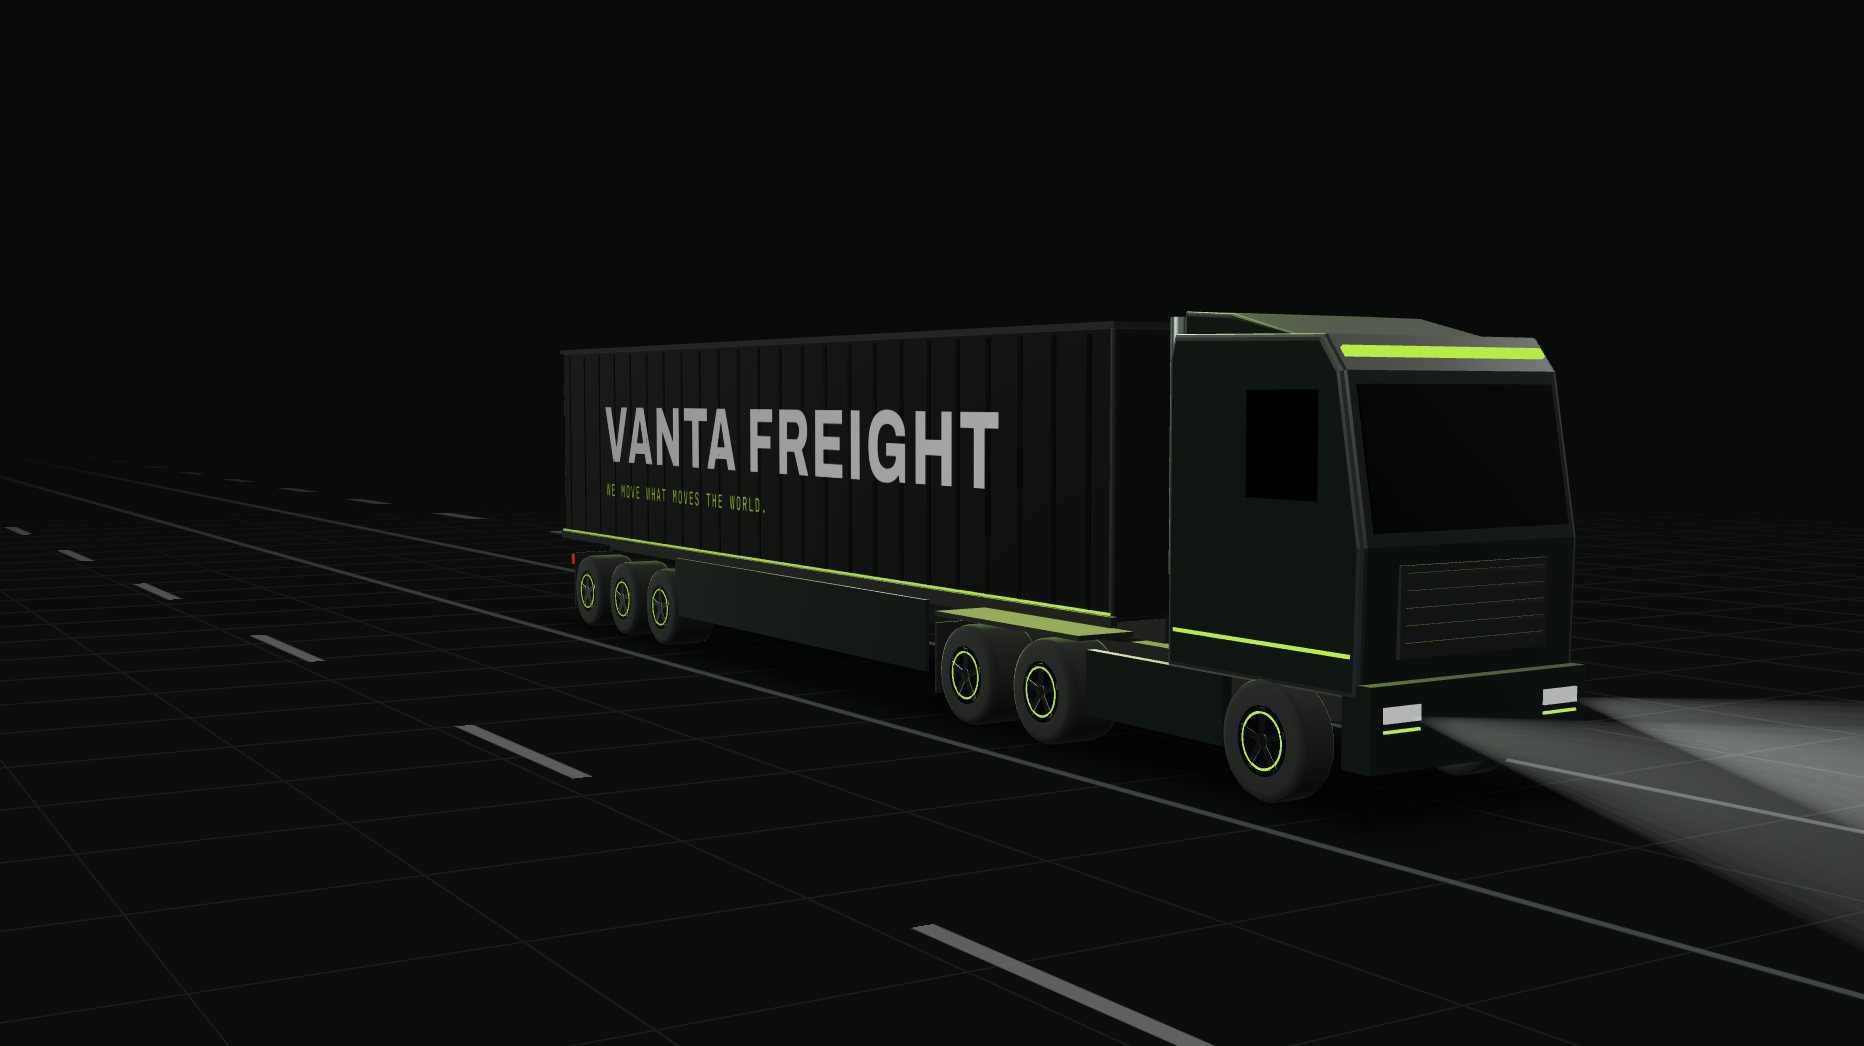
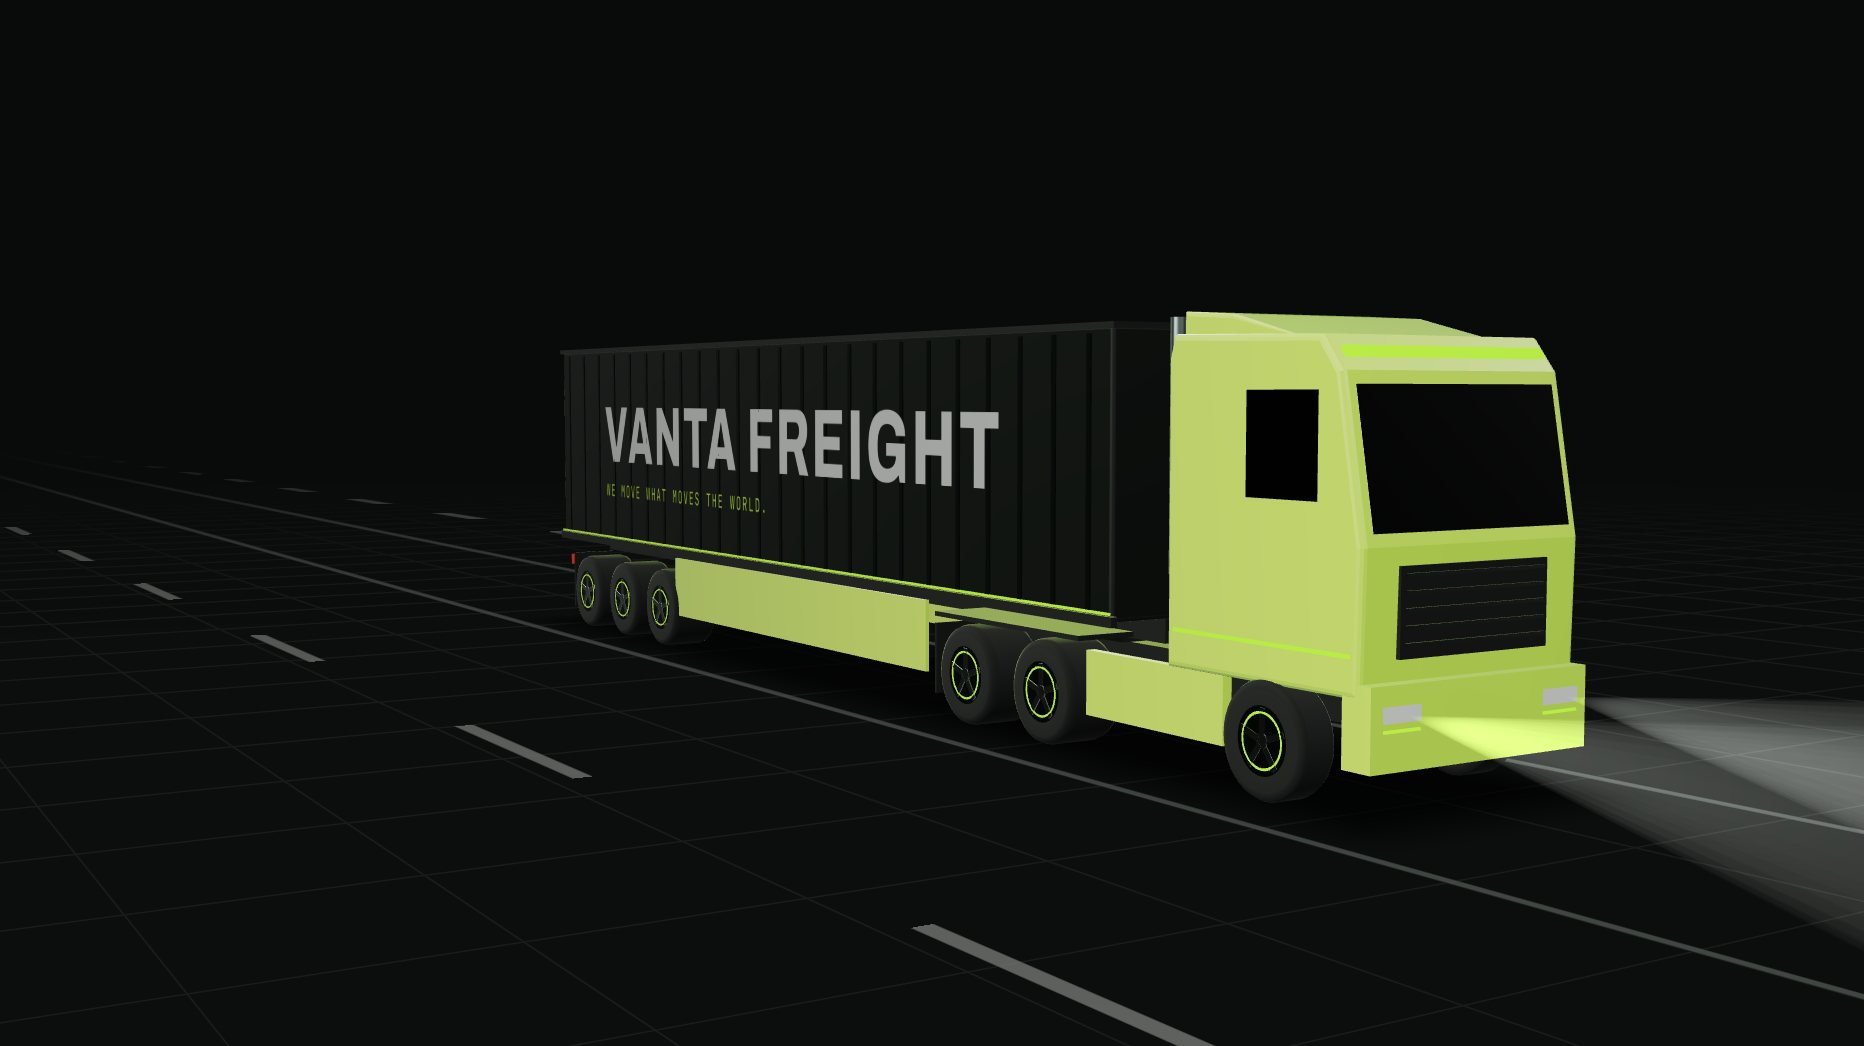
Give each fleet class its own brand livery
VF-01 gets a lime cab over a carbon trailer, VF-02 ice white with carbon
lettering and lime light lines, VF-03 brushed steel. All colours come from
the brand palette; the side lettering texture is now per text colour so
it reads on light and dark boxes. Posters and the social card are
re-rendered to match.

The Kenney Car Kit stays out of the site by the owner's decision; the
manifest records its verified CC0 licence and that it is not used.

Also make four timing-sensitive smoke checks wait for the expected state
instead of a fixed sleep, so they pass on slower machines.

Claude-Session: https://claude.ai/code/session_01D11oMKEwsjUTQBXcQRm84k

Changed region(s): [[0.5601, 0.2753, 0.8712, 0.7648], [0.3423, 0.5201, 0.529, 0.6424]]

diff --git a/src/webgl/truck/procedural-truck.js b/src/webgl/truck/procedural-truck.js
@@ -66,6 +66,38 @@ const VARIANTS = {
   },
 };
 
+// Per-class paint, all from the brand palette: VF-01 a lime cab over a carbon
+// trailer, VF-02 ice white with lime light lines, VF-03 brushed steel. `text`
+// colours the side lettering so it reads on the box paint.
+export const LIVERIES = {
+  semi: {
+    body: { color: '#a6e22e', metalness: 0.15, roughness: 0.3 },
+    trailer: { color: '#151916' },
+    rib: { color: '#1d231f' },
+    text: { name: '#e9ede8', tagline: '#c7ff4a' },
+  },
+  rigid: {
+    body: { color: '#dfe4de', metalness: 0.1, roughness: 0.32 },
+    trailer: { color: '#e2e6e1', metalness: 0.1, roughness: 0.45 },
+    rib: { color: '#c3cbc5', metalness: 0.3, roughness: 0.4 },
+    text: { name: '#151916', tagline: '#3d4741' },
+  },
+  tractor: {
+    body: { color: '#89958d', metalness: 0.85, roughness: 0.28 },
+    trailer: {},
+    rib: {},
+    text: null,
+  },
+};
+
+function applyLivery(materials, livery) {
+  for (const key of ['body', 'trailer', 'rib']) {
+    const { color, ...rest } = livery[key];
+    if (color) materials[key].color.set(color);
+    Object.assign(materials[key], rest);
+  }
+}
+
 function nonIndexed(geometry) {
   return geometry.index ? geometry.toNonIndexed() : geometry;
 }
@@ -355,14 +387,16 @@ function createWheels(materials, axles) {
   return { meshes, setDistance };
 }
 
-let liveryTexture = null;
+// One lettering texture per text colour pair, shared by every truck using it.
+const liveryTextures = new Map();
 
-function getLiveryTexture() {
-  liveryTexture ??= createLiveryTexture();
-  return liveryTexture;
+function getLiveryTexture(text) {
+  const key = `${text.name}/${text.tagline}`;
+  if (!liveryTextures.has(key)) liveryTextures.set(key, createLiveryTexture(text));
+  return liveryTextures.get(key);
 }
 
-async function createLiveryTexture() {
+async function createLiveryTexture(text) {
   try {
     await Promise.all([
       document.fonts.load("800 160px 'Archivo Variable'"),
@@ -377,7 +411,7 @@ async function createLiveryTexture() {
   canvas.height = 400;
   const ctx = canvas.getContext('2d');
 
-  ctx.fillStyle = '#e9ede8';
+  ctx.fillStyle = text.name;
   ctx.textBaseline = 'alphabetic';
   if ('fontStretch' in ctx) ctx.fontStretch = 'condensed';
   if ('letterSpacing' in ctx) ctx.letterSpacing = '10px';
@@ -392,7 +426,7 @@ async function createLiveryTexture() {
 
   if ('letterSpacing' in ctx) ctx.letterSpacing = '6px';
   if ('fontStretch' in ctx) ctx.fontStretch = 'normal';
-  ctx.fillStyle = '#c7ff4a';
+  ctx.fillStyle = text.tagline;
   ctx.font = "500 46px 'JetBrains Mono Variable', ui-monospace, monospace";
   ctx.fillText('WE MOVE WHAT MOVES THE WORLD.', 48, 345);
 
@@ -426,6 +460,7 @@ export async function createProceduralTruck({ variant = 'semi' } = {}) {
   const spec = VARIANTS[variant];
   if (!spec) throw new Error(`Unknown truck variant: ${variant}`);
   const materials = createBrandMaterials();
+  applyLivery(materials, LIVERIES[variant]);
   const parts = Object.fromEntries(Object.keys(materials).map((key) => [key, []]));
 
   buildTractor(parts, spec.tractor);
@@ -446,7 +481,7 @@ export async function createProceduralTruck({ variant = 'semi' } = {}) {
 
   let livery = null;
   if (spec.livery) {
-    livery = createLivery(await getLiveryTexture(), spec.livery);
+    livery = createLivery(await getLiveryTexture(LIVERIES[variant].text), spec.livery);
     livery.meshes.forEach((mesh) => group.add(mesh));
   }
 

diff --git a/ASSET_MANIFEST.md b/ASSET_MANIFEST.md
@@ -61,7 +61,7 @@ Last updated: 2026-10-29 (milestone M5).
 |---|---|---|---|---|---|---|---|---|
 | M0 | **Procedural "VF-01" tractor and trailer** (`src/webgl/truck/procedural-truck.js`) (built in code from Three.js primitives: `RoundedBoxGeometry`, `ExtrudeGeometry`, `LatheGeometry`, `CylinderGeometry`) | VANTA FREIGHT project (original work) | This repository | Original work (project licence) | n/a. No third-party rights. | Target < 15k triangles, 0 KB download (code only), wheels and lights are separate meshes by construction | **High** for brand control and performance. Medium for realism. A stylised, monolithic "stealth freight" look suits the obsidian palette. | **APPROVED: shipped in M1** |
 | M1 | Cesium Milk Truck | Cesium (via Khronos glTF-Sample-Assets) | https://github.com/KhronosGroup/glTF-Sample-Assets/tree/main/Models/CesiumMilkTruck | **CC BY 4.0** (© 2017 Cesium). The Cesium **logo** is covered separately by `LicenseRef-LegalMark-Cesium`, which grants **no** right to use the mark outside that model's usage. | **[VERIFIED]** `metadata.json`, `README.md`, and `LICENSES/LicenseRef-LegalMark-Cesium.txt` read from raw.githubusercontent.com on 2026-10-28; `metadata.json` re-checked 2026-10-29 | Original: GLB 369,980 bytes, about 3.6k triangles, one 2048² JPEG with the logo. **Committed copy** (`tests/fixtures/cesium-milk-truck.glb`): textures and animation removed, deduplicated, welded and pruned; 113 KB, 2,856 triangles, **no logo**. | Pipeline test fixture for M5. Toy proportions; not suitable as the hero. | **APPROVED as a test fixture only** (credited in `tests/fixtures/README.md`). Never shipped: a test checks that the production build doesn't contain it. |
-| M2 | Kenney "Car Kit" (contains truck, delivery and van models) | Kenney (kenney.nl) | https://www.kenney.nl/assets/car-kit · https://kenney-assets.itch.io/car-kit | **CC0 1.0** | **[SECONDARY]** Search results quote the itch.io page: "CC0 1.0 Universal … any project including commercial ones". kenney.nl and itch.io pages were blocked here. | **[SECONDARY]** 45 assets, OBJ/FBX/glTF, about 3.4 MB zip, v2.0 "completely remade". Truck filenames and triangle counts are not confirmed. Likely very low-poly and stylised. | Medium-low: the stylised toy aesthetic needs a heavy material override. It is a good source of **background traffic and fleet silhouettes**. | CANDIDATE: needs first-hand check of zip contents and License.txt |
+| M2 | Kenney "Car Kit" (contains truck, delivery and van models) | Kenney (kenney.nl) | https://www.kenney.nl/assets/car-kit · https://kenney-assets.itch.io/car-kit | **CC0 1.0** | **[SECONDARY]** Search results quote the itch.io page: "CC0 1.0 Universal … any project including commercial ones". kenney.nl and itch.io pages were blocked here. | **[SECONDARY]** 45 assets, OBJ/FBX/glTF, about 3.4 MB zip, v2.0 "completely remade". Truck filenames and triangle counts are not confirmed. Likely very low-poly and stylised. | Medium-low: the stylised toy aesthetic needs a heavy material override. It is a good source of **background traffic and fleet silhouettes**. | **NOT USED.** Licence later **[VERIFIED]** CC0 from the kit's own `License.txt` (zip supplied by the owner on the `models` branch, 2026-10-29). It was tried as background yard traffic, but by the owner's decision (2026-10-30) nothing from the kit ships. |
 | M3 | "Vehicles" low-poly pack (van, hot rod, pickup, **semi-truck**) | Per OpenGameArt listing (author not captured) | https://opengameart.org/content/vehicles-0 | **CC0** | **[SECONDARY]** search summary. opengameart.org was blocked here. | **[SECONDARY]** single GIMP-made texture, low poly. Format not confirmed. | Medium for a fleet silhouette, low for the hero. | CANDIDATE: needs first-hand check |
 | M4 | "Low Poly Truck" | Arifido._ (Sketchfab) | https://sketchfab.com/3d-models/low-poly-truck-98826ebd44e2492298ac925461509216 | **CC BY** (per search summary) | **[SECONDARY]**. sketchfab.com was blocked here. Downloading needs a free Sketchfab account. | **[SECONDARY]** about 11.3k triangles. Trailer and glTF availability are not confirmed. Truck type is not confirmed. | Unknown until inspected | CANDIDATE: needs first-hand check |
 | M5 | Quaternius "LowPoly Public Transport" | Quaternius | https://opengameart.org/node/83020 | **CC0** | **[SECONDARY]** | Blend/OBJ/FBX, **no semi or box truck** (buses, ambulance, taxi, and so on) | Low: no suitable truck | REJECTED for the hero (possible background traffic) |

diff --git a/IMPLEMENTATION_PLAN.md b/IMPLEMENTATION_PLAN.md
@@ -166,6 +166,8 @@ Scenes 3–7, all secondary pages beyond stubs, tracking, forms, GLB models, and
 - **Found and fixed:** three.js sanitises node names on load (`Wheels.001` becomes `Wheels001`), so mappings written from the file's own names silently missed wheels. The matcher now sanitises the same way.
 - **To finish M5:** pick a model, then either allow its host in the environment's network settings or download it yourself and commit it with its licence text. Then run the optimiser, write its mapping, and switch `HERO_TRUCK`. The camera keyframes are tuned for a 17 m semi, so a model of different proportions needs its framing re-checked.
 - If a GLB truck is approved in `ASSET_MANIFEST.md`: optimise with gltf-transform (`dedup`, `prune`, `weld`, `draco` or `meshopt`, `resize --width 2048`, `webp`), map wheel and light nodes, apply the brand material override, and A/B it against the procedural truck.
+- **Kenney Car Kit (2026-10-29/30):** the owner supplied the zip and its `License.txt` was verified (CC0). The kit has no tractor-trailer, so it was tried only as background yard traffic. On review, the owner chose to drop it, so nothing from the kit ships.
+- **Fleet liveries (2026-10-30):** instead, each procedural class gets its own brand-palette paint (`LIVERIES` in `procedural-truck.js`): VF-01 has a lime cab over a carbon trailer, VF-02 is ice white with carbon lettering, and VF-03 is brushed steel. The posters and social card were re-rendered with `npm run posters`.
 - **Acceptance:** model ≤ 1.5 MB; no fps regression; credits rendered.
 
 ## Phase 7 — M6: Hardening and deployment

diff --git a/README.md b/README.md
@@ -13,7 +13,7 @@ A cinematic, multipage website for a **fictional** freight company: a design and
 All six milestones are merged and live:
 
 - **M1–M4:** the full home film, Services and the four service pages, Fleet (with a 3D viewer), About (with credits), a **simulated** shipment tracker and a **demo** quote and contact form. Neither the tracker nor the form makes a network request.
-- **M5:** the glTF model pipeline is built and tested, but **no licensed model is switched on**. None could be verified first-hand from the build environment, so the trucks stay procedural. See "Using a licensed 3D model" below.
+- **M5:** the glTF model pipeline is built and tested, but **no licensed model is switched on**. The trucks stay procedural and original, each in its own brand livery: VF-01 has a lime cab and a carbon trailer, VF-02 is ice white with lime light lines, and VF-03 is brushed steel. See "Using a licensed 3D model" below.
 - **M6:** hardening, including a strict Content Security Policy, SEO and social metadata, axe-core and Lighthouse audits.
 
 Acceptance status: `PROJECT_SPEC.md` §9.1.
